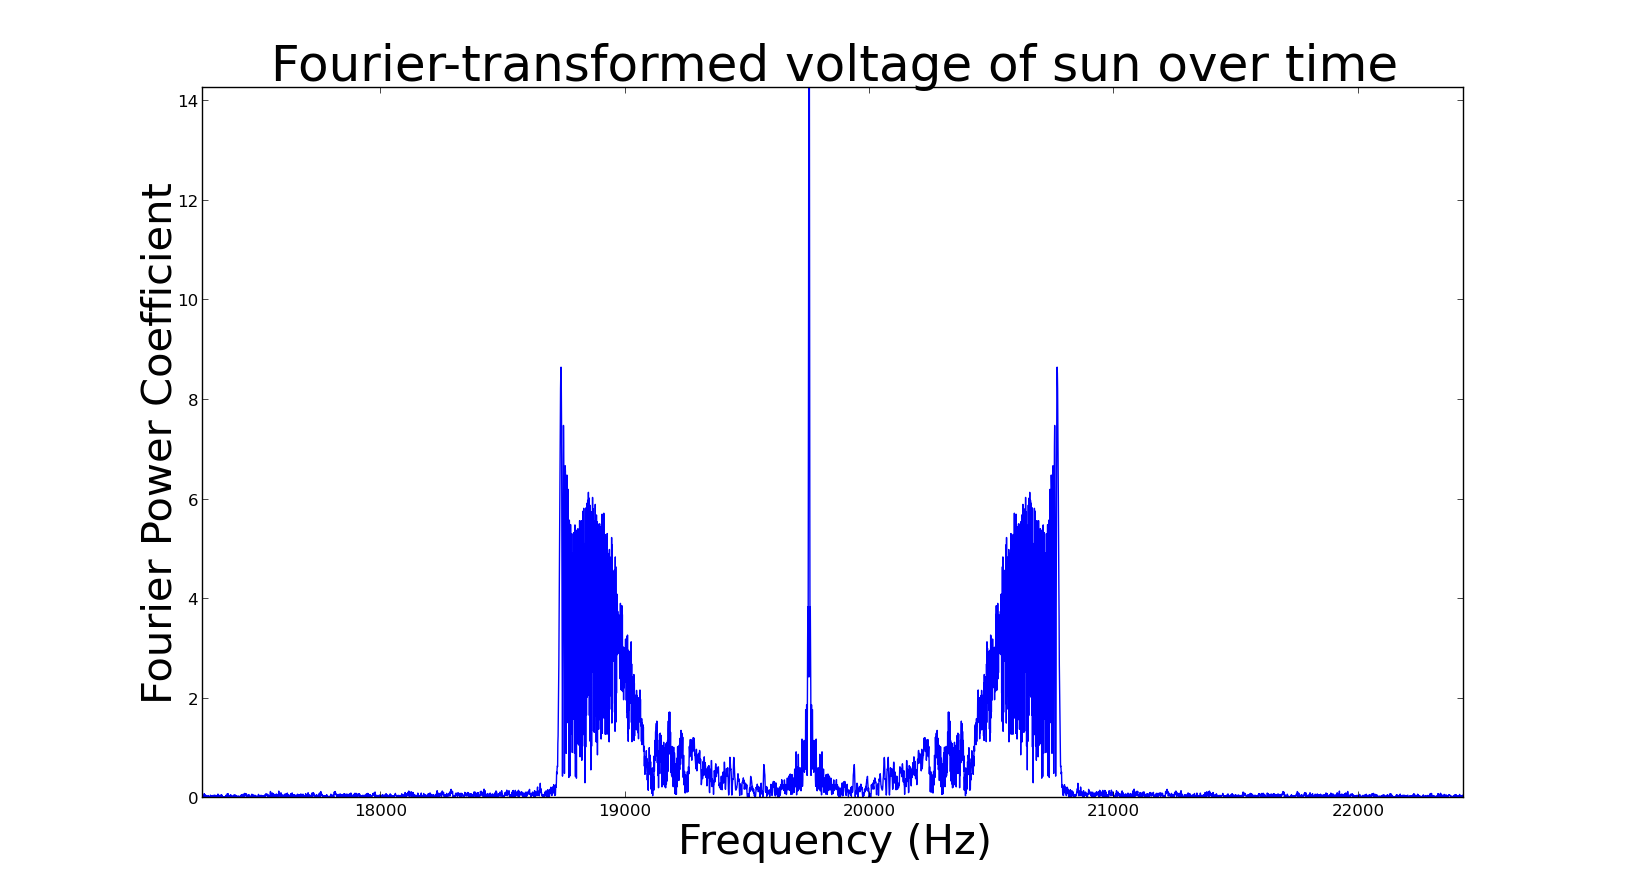
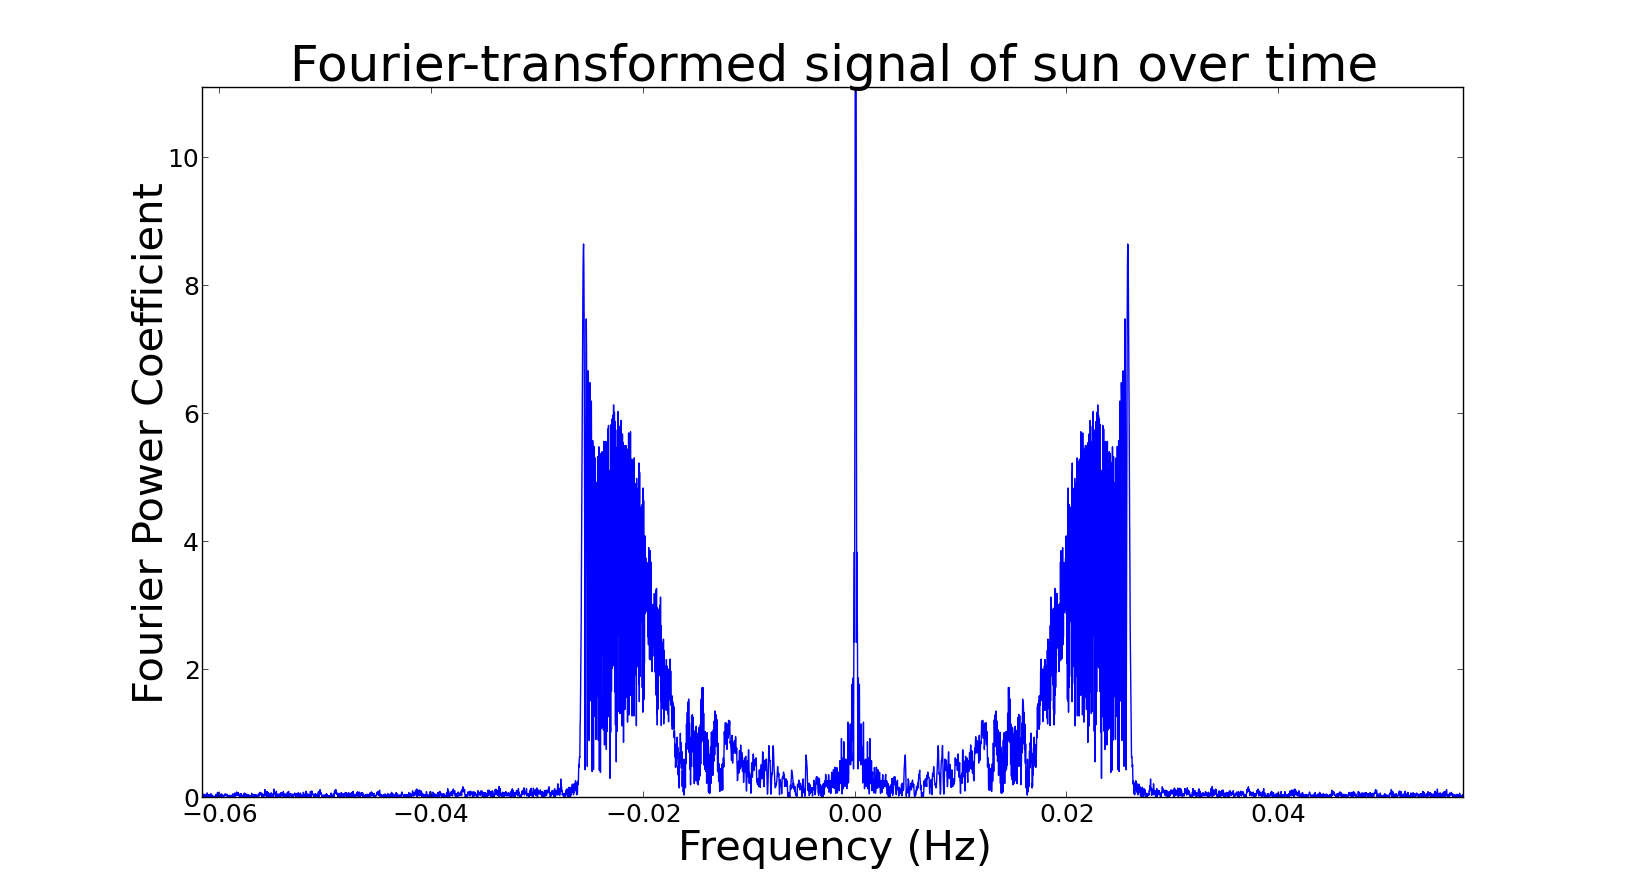
Work work

diff --git a/lab3/lab3.tex b/lab3/lab3.tex
@@ -47,7 +47,26 @@ In this lab, we did stuff. Hooray! %TODO figure out stuff
 
 \section{Experiments, Observations, Analysis and Interpretation} 
 
-The first thing we had to do in order to observe the celestiaol bodies was to figure out when they would be visible. Given the right ascensions and declinations of the various objects, we used rotation matrices to calculate altitude and azimuth for various local sidereal times in Berkeley. When the calculated altitudes are positive, the object is visible, disregarding the view-blocking tendencies of the Berkeley hills and surrounding buildings. The code used to calculate the altitudes and azimuths apppears in rotation.py; the resulting LSTs of visibility appear in Table \ref{lsts}.
+\subsection{Calculating When Objects of Interest are Overhead}
+The first thing we had to do in order to observe the celestial bodies was to figure out when they would be visible. Given the right ascensions and declinations of the various objects, we used rotation matrices to calculate altitude and azimuth for various local sidereal times in Berkeley. When the calculated altitudes are positive, the object is visible, disregarding the view-blocking tendencies of the Berkeley hills and surrounding buildings. To calculate the altitude and azimuth given right ascension and declination, you use the formulas $A = \tan\inv{\sin{h}/(\cos{h}\sin{\phi_o} - \tan{\delta}\cos{\phi_o})}$ and $a = \sin\inv{\sin{\phi_o}\sin{\delta} + \cos{\phi_o}\cos{\delta}\cos{h}}$ where $A$ is the azimuth, $h$ is the hour angle, $\phi_o$ is the latitude of the observer, $\delta$ is the declination, and $a$ is the altitude. These equations are derived from the equation 
+$\begin{bmatrix}
+\sin{\phi_o} & 0 & -\cos{\phi_o} \\
+0 & 1 & 0 \\
+\cos{\phi_o} & 0 & \sin{\phi_o}
+\end{bmatrix}
+\begin{bmatrix}
+\cos{\delta}\cos{h} \\
+\cos{\delta}\sin{h}
+\sin{\delta}
+\end{bmatrix}
+=
+\begin{bmatrix} 
+\cos{a}\cos{A} \\
+\cos{a}\sin{A} \\
+\sin{a}
+\end{bmatrix}$
+
+which is where the rotation matrices come in. The code used to calculate the altitudes and azimuths apppears in rotation.py; the resulting LSTs of visibility appear in Table \ref{lsts}. These methods don't work on the sun and the moon because they are too close to the earth to have static right ascension and declination. Luckily, one can determine when they are visible by looking outside.
 
 \begin{figure}
 \centering
@@ -67,6 +86,27 @@ W51 & [3.30, .56] \\
 \caption{When the objects are visible in LST radians. \label{lsts}}
 \end{figure}
 
+\subsection{The Sun}
+Then, we looked at the sun. First we looked at it for an hour to make sure our scripting was functional, and then we looked at it for an entire day. The hour-long measurements appear in Figure \ref{hoursun} and the day measurements appear in Figure \ref{daysun}.
+
+\begin{figure}
+\centering
+\includegraphics[scale=0.35]{garphs/sunhourvolt}
+\includegraphics[scale=0.35]{garphs/sunhourzoom}
+\includegraphics[scale=0.35]{garphs/sunhourfourier}
+\caption{The top graph shows the signals we measured from the sun over an hour. The middle shows a zoomed-in version of this data. The bottom shows the Fourier transform of the top. \label{hoursun}}
+\end{figure}
+
+\begin{figure}
+\centering
+\includegraphics[scale=0.35]{garphs/sundayvolt}
+\includegraphics[scale=0.35]{garphs/sundayzoom}
+\includegraphics[scale=0.35]{garphs/sundayfourier}
+\caption{The top graph shows the signals we measured from the sun over the course of a day. The middle shows a zoomed-in version of this data. The bottom shows the Fourier transform of the top. \label{daysun}}
+\end{figure}
+
+The sun's signal comes through as a sinusoid, as we expect from the properties of the interferometer. Looking at the Fourier transform, one can see strong peaks a few thousand Hz past the DC offset in the center. As in the last lab, our Fourier distributions are symmetric about zero due to the complex exponential multiplication that the interferometer does. Using formula 11, we can calculate the expected range of fringe frequencies and compare it with our observed frequencies. Assuming $B_y = 10$m and $\lambda = 2.5$cm, we get $f_f = B_y / \lambda * 2\pi / (86400) = .03\cos{h_s}$ Hz, where $h_s$, the hour angle, varies between $-\pi/2$ and $\pi/2$ throughout the day, being 0 at the meridian. Thus, we can expect that we will see frequencies in the Fourier spectrum between 0 and $.03$ Hz, with the power increasing as we move towards .03, since the sun is strongest at the meridian. This is exactly what we see in the full-day data, and the hour-long data, which was taken around midday, just shows a strong peak around .03 Hz. 
+
 %COMMENT: Using \label{value} and \ref{value} will allow you to refer to
 %a specific figure without worrying about the order in which you have
 %them in your document. While this obviously matters somewhat in terms
@@ -75,8 +115,6 @@ W51 & [3.30, .56] \\
 %but you can change the rest fairly easily. Additionally, \centering
 %will put the figure in the middle of the page when you scale it down to
 %a more reasonable size.
-
-\subsection{The Nyquist Frequency}
 
 %TODO desired ideal filter response, actual calculated filter response
 

diff --git a/lab3/transformgraph.py b/lab3/transformgraph.py
@@ -4,11 +4,13 @@ import matplotlib.pyplot as plt
 import sys
 
 def main(args):
-        data = np.load(args[0])
-        plt.plot( np.abs( np.fft.fftshift( np.fft.fft(data["volts"]) ) ) )
-        plt.title("Fourier-transformed voltage of " + args[1] + " over time", fontsize=36);
+        data = np.load(args[0])["volts"]
+        plt.plot( np.fft.fftfreq(len(data)), np.abs( np.fft.fft(data)))#np.fft.fftshift( np.fft.fft(data))))#["volts"]) ) ) )
+        plt.title("Fourier-transformed signal of " + args[1] + " over time", fontsize=36);
         plt.xlabel("Frequency (Hz)", fontsize=30)
         plt.ylabel("Fourier Power Coefficient", fontsize=30)
+	plt.tick_params(axis='both', which='major', labelsize=18)
+
         plt.show()
 
 

diff --git a/lab3/voltagegraph.py b/lab3/voltagegraph.py
@@ -6,9 +6,11 @@ import sys
 def main(args):
     data = np.load(args[0])
     plt.plot( data["volts"] )
-    plt.title("Voltage of " + args[1] + " over time", fontsize=36);
+    plt.title("Signal of " + args[1] + " over time", fontsize=36);
     plt.xlabel("Time (sec)", fontsize=30)
-    plt.ylabel("Voltage (V)", fontsize=30)
+    plt.ylabel("Signal strength", fontsize=30)
+    plt.tick_params(axis='both', which='major', labelsize=18)
+
     plt.show()
     
 
